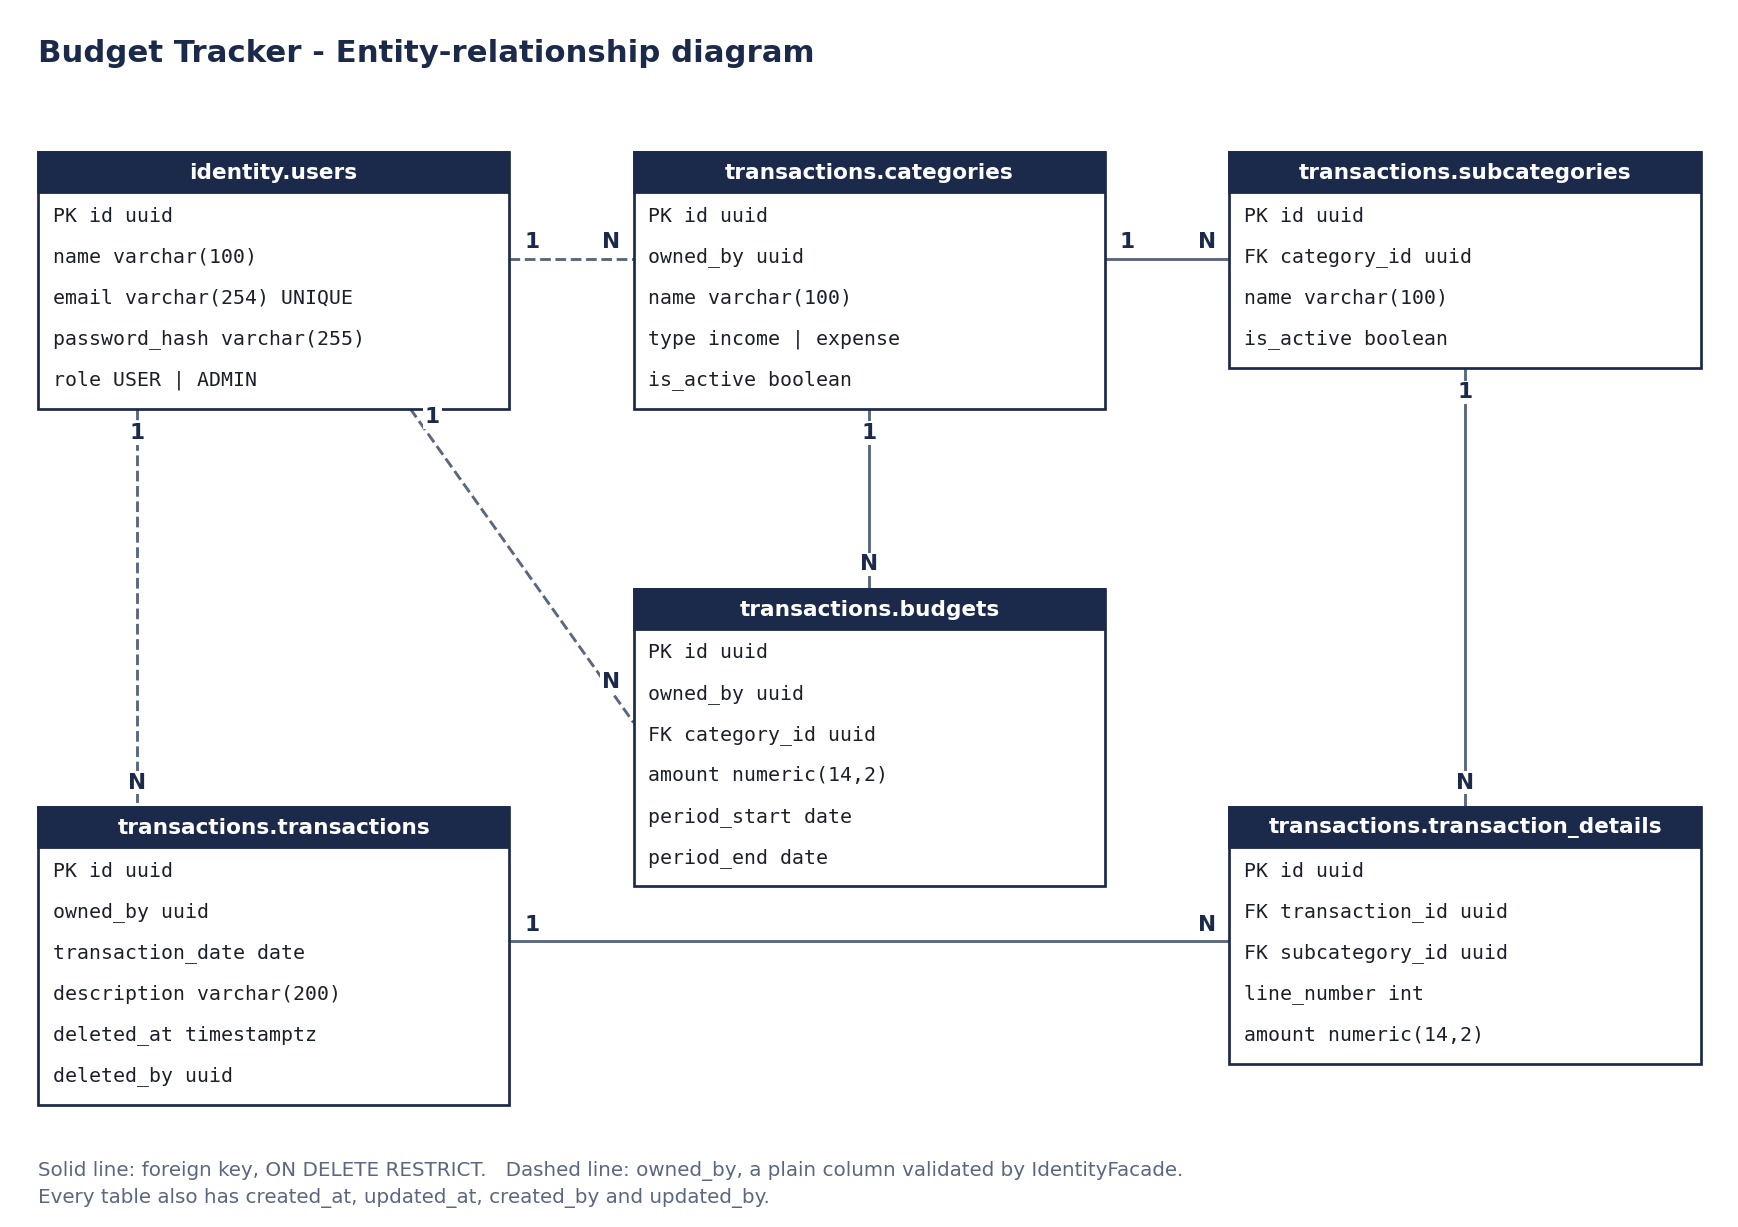
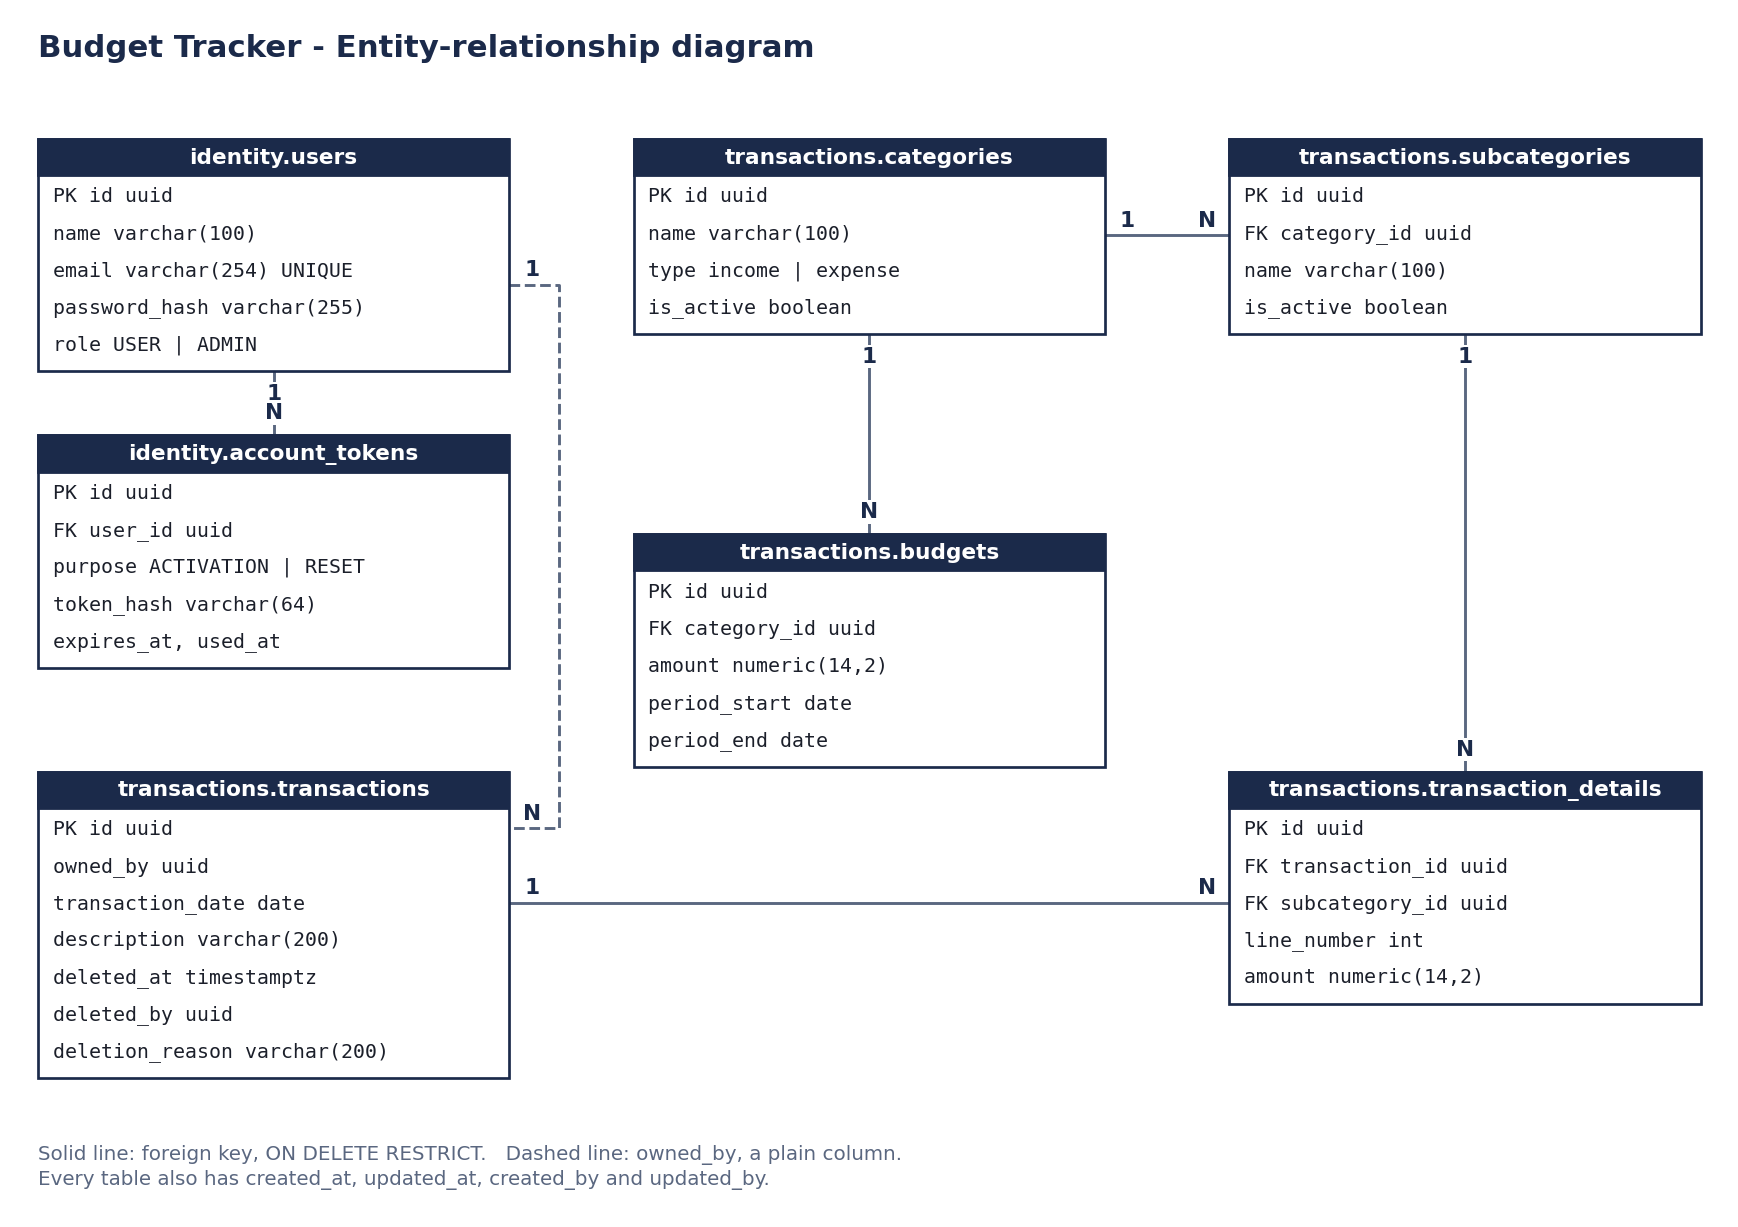
docs(readme): add the new migrations and update the diagram

diff --git a/src/db/README.md b/src/db/README.md
@@ -45,6 +45,9 @@ creates in those schemas automatically (default privileges, `Platform001`).
 | `202611061710` | `Transactions006_CreateBudgets` | HU-07 | `transactions.budgets`: an owner, a category, an amount `numeric(14,2)` above zero and a period that ends after it starts, both checked so a change can never break them (BR-06); deleted physically; its key to the category is `ON DELETE RESTRICT`, so a category with a budget cannot be deleted (BR-05) |
 | `202611082300` | `Identity002_AddUserRole` | HU-09 | `role` on `identity.users`: `USER` or `ADMIN`, `USER` by default (ADR-007) |
 | `202611082301` | `Identity003_SeedUsers` | HU-09 | One test user per role, with BCrypt hashes (ADR-008) |
+| `202611092100` | `Identity004_AddAccountTokens` | HU-10 | `identity.account_tokens`: single-use links, only their hash (ADR-010); `password_hash` optional until an account is activated |
+| `202611092101` | `Transactions007_ShareCatalog` | HU-12 | Removes `owned_by` from categories and budgets; a category name is unique per type (ADR-009) |
+| `202611092102` | `Transactions008_AddDeletionReason` | HU-06 | `deletion_reason`, set together with `deleted_at` (BR-04) |
 
 ## Seed users
 
